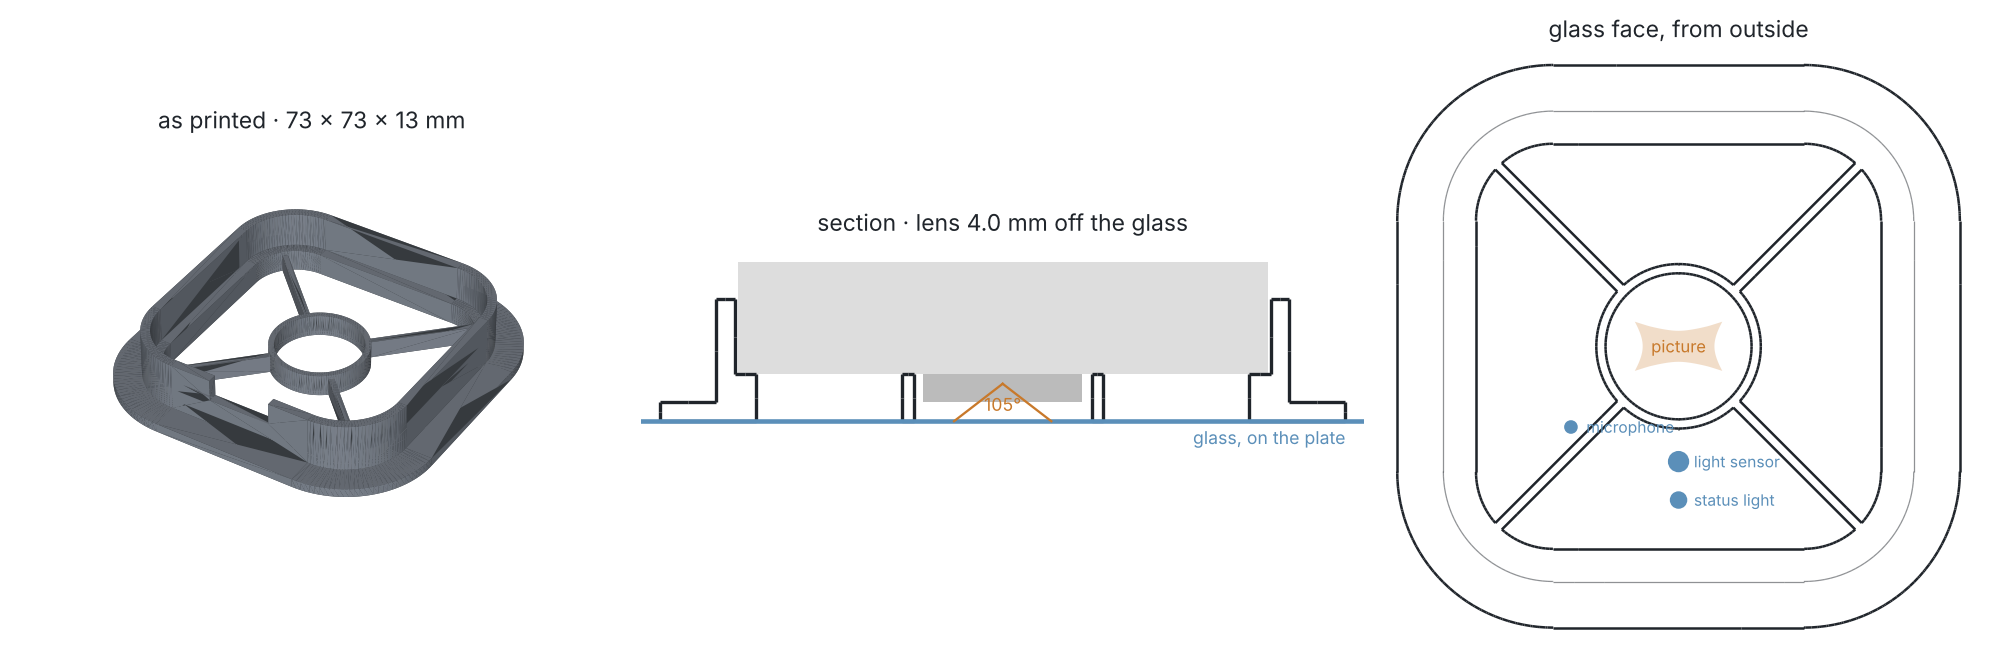
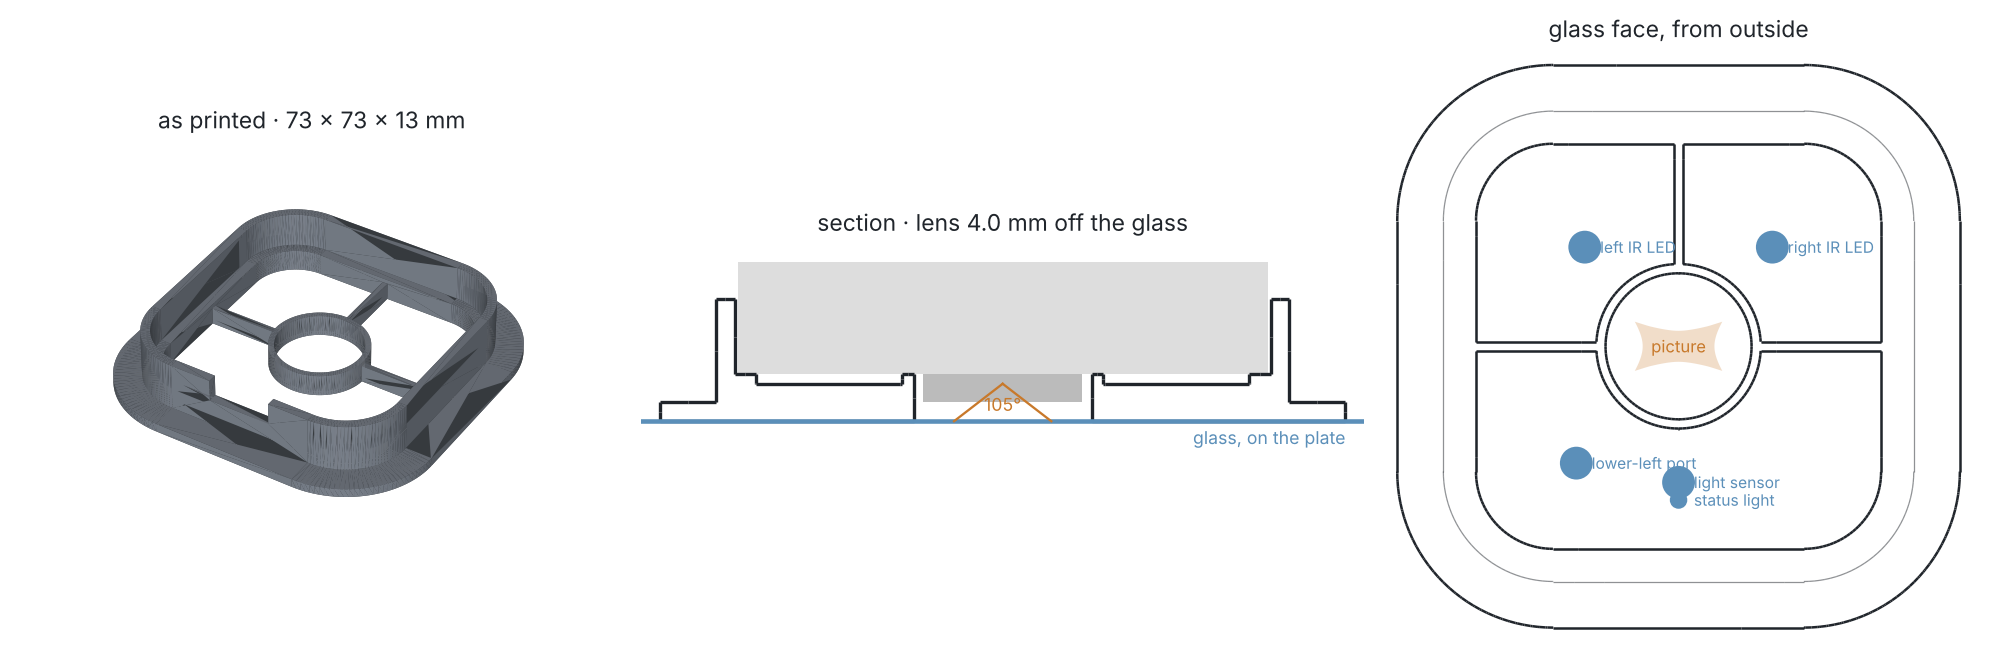
Place the C100's IR LEDs from a photo of its IR board
Philip's photo of the board behind the face shows the two IR LEDs at the
top corners, the light sensor below the lens and a grommet low on the
left. The diagonal ribs would have stood in front of the LEDs, so the
hood is now held by ribs left, right and up, and the LEDs are face
features the validation and tests keep clear of.

diff --git a/geom/cameras.py b/geom/cameras.py
@@ -16,11 +16,16 @@ internals (a 52.6mm square board) agrees with. Expect them to be within a
 couple of millimetres, not tenths. Every one is a field, so measure the real
 camera with calipers and pass the numbers in rather than trusting these.
 
-The IR LEDs are the one thing a photo cannot show: they sit behind the black
-face panel and are dark in daylight. A phone camera sees 850nm, so point one at
-the C100 in a dark room with night vision on and the LEDs show as purple dots.
-The shroud keeps them outside its lens hood, which only works if they are more
-than ``hood`` millimetres from the lens; see parts.window_shroud.
+The IR LEDs, light sensor and lower-left port sit on a small board behind the
+face panel, and their positions come from a photo of that board, taken out of a
+C100: two surface-mount IR LEDs at the top corners, the light sensor's dome
+straight below the lens, a black grommet low on the left. The photo has no
+ruler, so it is scaled by assuming the board's 2x3 header pads are on 2.54mm
+pitch, which makes the lens hole about 19mm across. One caliper reading of that
+hole, or of the two LEDs centre to centre (about 25mm on that scale), confirms
+or rescales all of them. The shroud keeps the LEDs outside its lens hood, which
+only works while they are further from the lens than the hood's outside; see
+parts.window_shroud.
 
 THE FIELD OF VIEW IS A FISHEYE'S. TP-Link give three angles, horizontal,
 vertical and diagonal, and for the C100 the diagonal is wider than a rectilinear
@@ -177,9 +182,13 @@ TAPO_C100 = Camera(
     bezel_proud=3.0,
     pupil_depth=2.0,
     features=(
-        Feature("light sensor", 0.0, -15.0, 2.5),
+        # Off the photo of the IR board, at 14.7px/mm; see the module note.
+        Feature("left IR LED", -12.2, 12.9, 4.0),
+        Feature("right IR LED", 12.2, 12.9, 4.0),
+        Feature("light sensor", 0.0, -17.7, 4.0),
+        Feature("lower-left port", -13.3, -15.2, 4.0),
+        # Off the product photo: the green light on the face below the sensor.
         Feature("status light", 0.0, -20.0, 2.0),
-        Feature("microphone", -14.0, -10.5, 1.5),
     ),
 )
 

diff --git a/parts/window_shroud.py b/parts/window_shroud.py
@@ -20,8 +20,10 @@ Infrared from the LEDs leaves the face outside the hood, goes through the pane
 and lights the yard; what the inner surface of the glass reflects comes back
 outside the hood too, and the hood's wall stands between it and the lens. The
 LEDs, the light sensor and the status light all sit in the space between the
-two tubes, looking straight out, and four thin ribs on the diagonals hold the
-hood in place without standing in front of any of them.
+two tubes, looking straight out, and three thin ribs -- left, right and up --
+hold the hood in place without standing in front of any of them. On the C100
+the IR LEDs are at the top corners and the sensor and a port are below, so the
+diagonals and straight down are taken.
 
 WHY THE LENS SITS SO CLOSE TO THE GLASS. The C100's lens is close to a
 fisheye: 117 degrees across the diagonal. A hood has to be wider than the
@@ -113,10 +115,10 @@ class Params:
     """Gap each side between the lens bezel and the hood. Covers the lens
     position being an estimate as much as it covers the print."""
 
-    ribs: tuple[float, ...] = field(default=(45.0, 135.0, 225.0, 315.0))
+    ribs: tuple[float, ...] = field(default=(0.0, 90.0, 180.0))
     """Angles, from the camera's right going up, of the ribs that hold the
-    hood. The diagonals, because the sensor, status light and mic are below
-    the lens and the IR LEDs are most likely either side of it."""
+    hood. Left, right and up, because on the C100 the IR LEDs sit on the upper
+    diagonals and the light sensor and a port are below the lens."""
     rib_width: float = 1.2
     rib_gap: float = 1.0
     """Ribs stop this far short of the face, so they shade nothing on it and

diff --git a/tests/test_window_shroud.py b/tests/test_window_shroud.py
@@ -227,3 +227,10 @@ def test_a_single_bead_wall_is_refused():
 def test_a_sleeve_deeper_than_the_head_is_refused():
     with pytest.raises(ValueError, match="back of"):
         build(Params(sleeve=C100.head_depth))
+
+
+def test_ribs_on_the_diagonals_would_stand_in_front_of_the_ir_leds():
+    """The C100's IR LEDs are on the upper diagonals, which is why the ribs
+    are not."""
+    with pytest.raises(ValueError, match="IR LED"):
+        build(Params(ribs=(45.0, 135.0)))

diff --git a/README.md b/README.md
@@ -180,7 +180,8 @@ of the head and blacks out the patch of glass the camera looks through, and a
 short hood from the face round the lens bezel to the glass. The LEDs, light
 sensor and status light sit between the two, looking straight out; what the
 glass reflects of the LEDs lands outside the hood, and the hood's wall stands
-between it and the lens. Four thin ribs on the diagonals hold the hood and stop
+between it and the lens. Three thin ribs, left, right and up, hold the hood
+clear of the C100's IR LEDs (top corners) and its sensor (below), and stop
 short of the face so they shade nothing on it.
 
 ```sh
@@ -194,7 +195,8 @@ has to grow by about three millimetres for every millimetre of standoff. Kept
 at 5mm, the whole picture fits inside a tube that only just clears the bezel;
 `validate` refuses standoffs where the hood would cover the face's sensors or
 lean past 40°. The field of view is sourced from TP-Link; the head and face
-layout are estimates off a product photo (see `geom/cameras.py`), and every one
+layout are estimates off a product photo and a photo of the IR board (see
+`geom/cameras.py`), and every one
 has a flag for a caliper reading. Print it glass face down, in matte black PETG
 or ASA: PLA softens in a sunny window. In double glazing, a little LED light can
 still bounce off the outer pane back into the hood; if that shows, turn the
